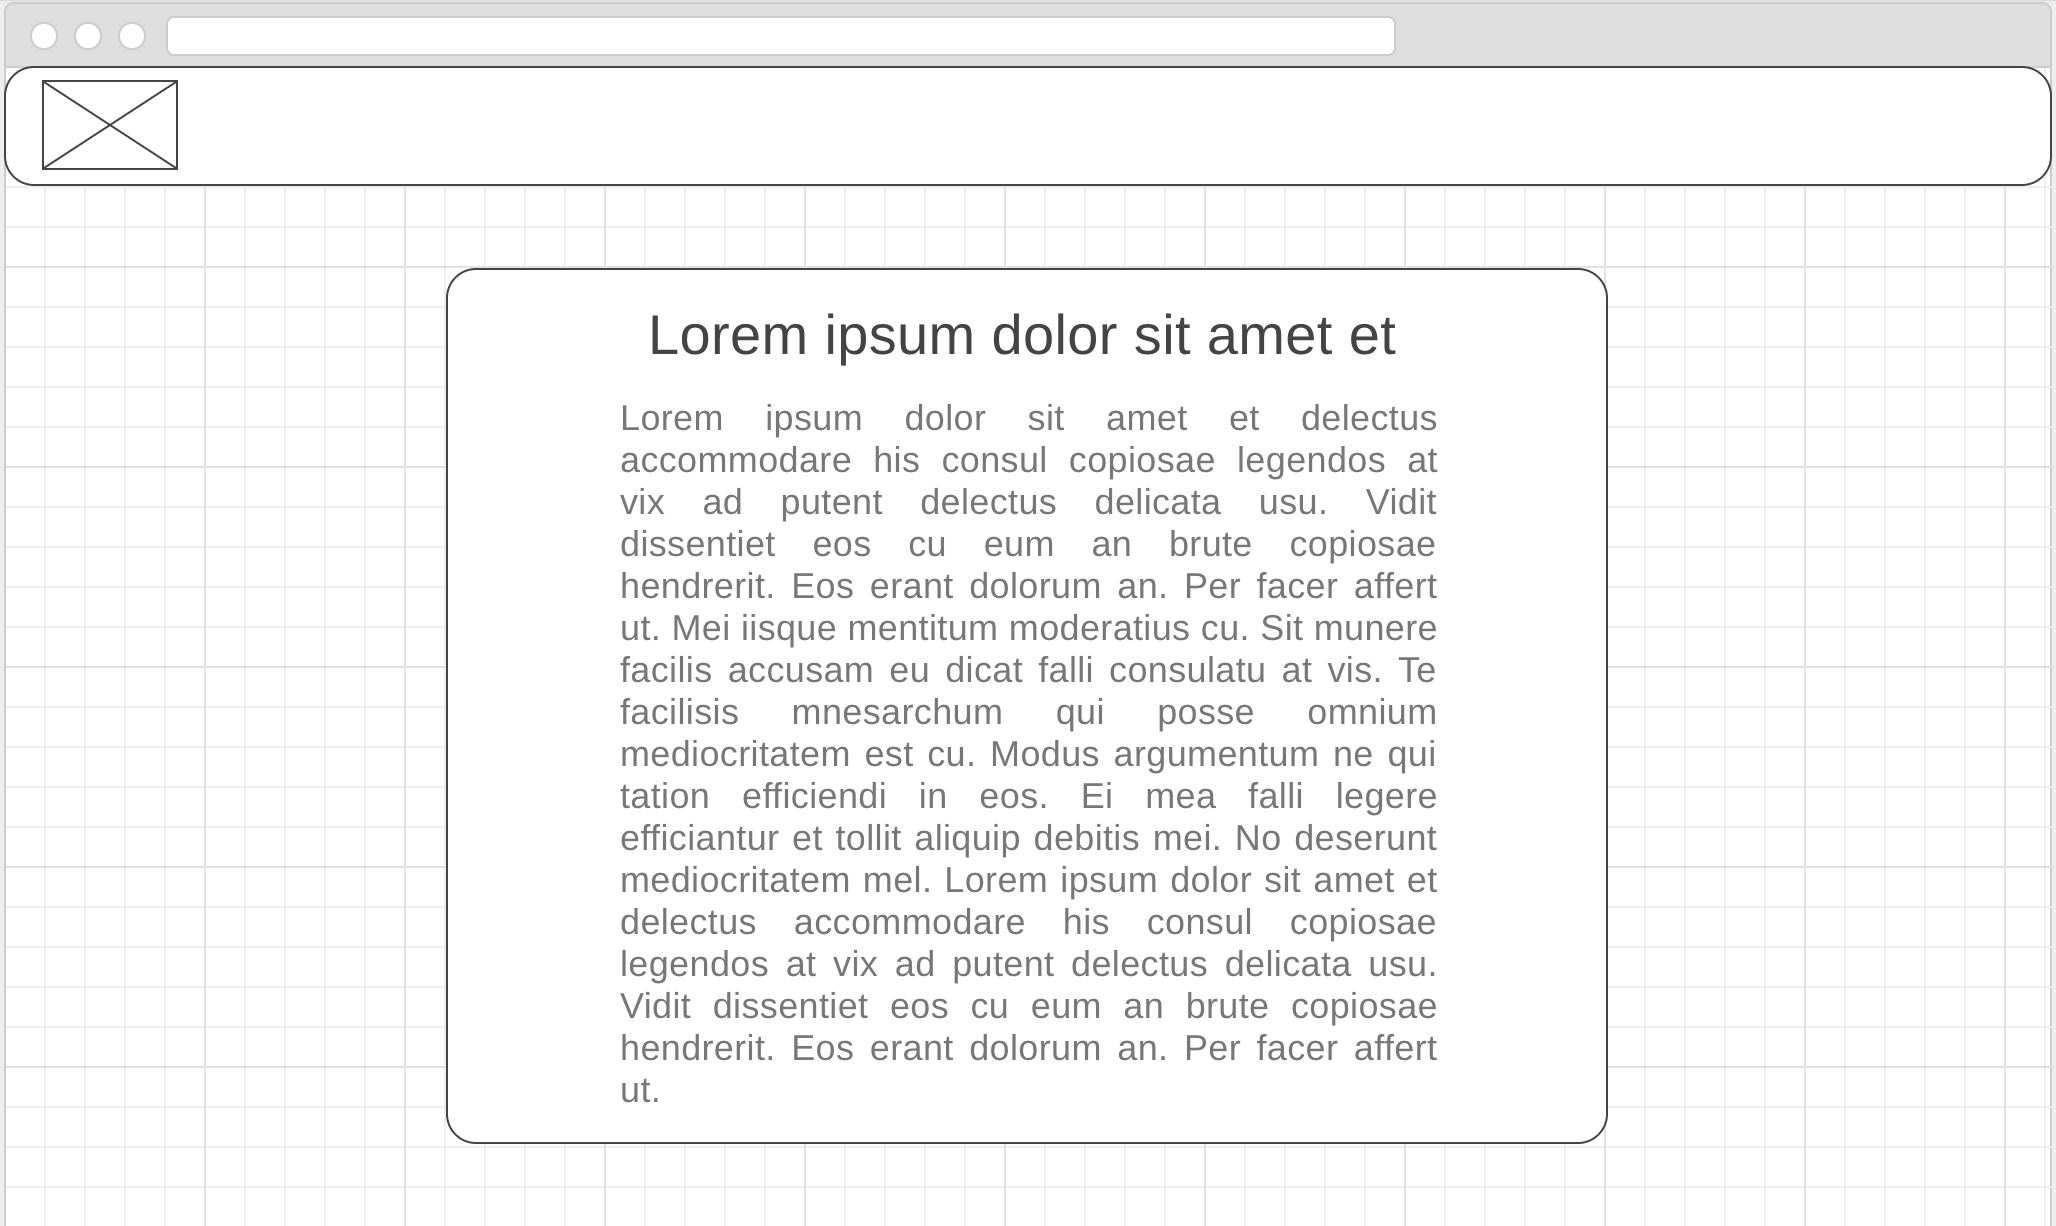
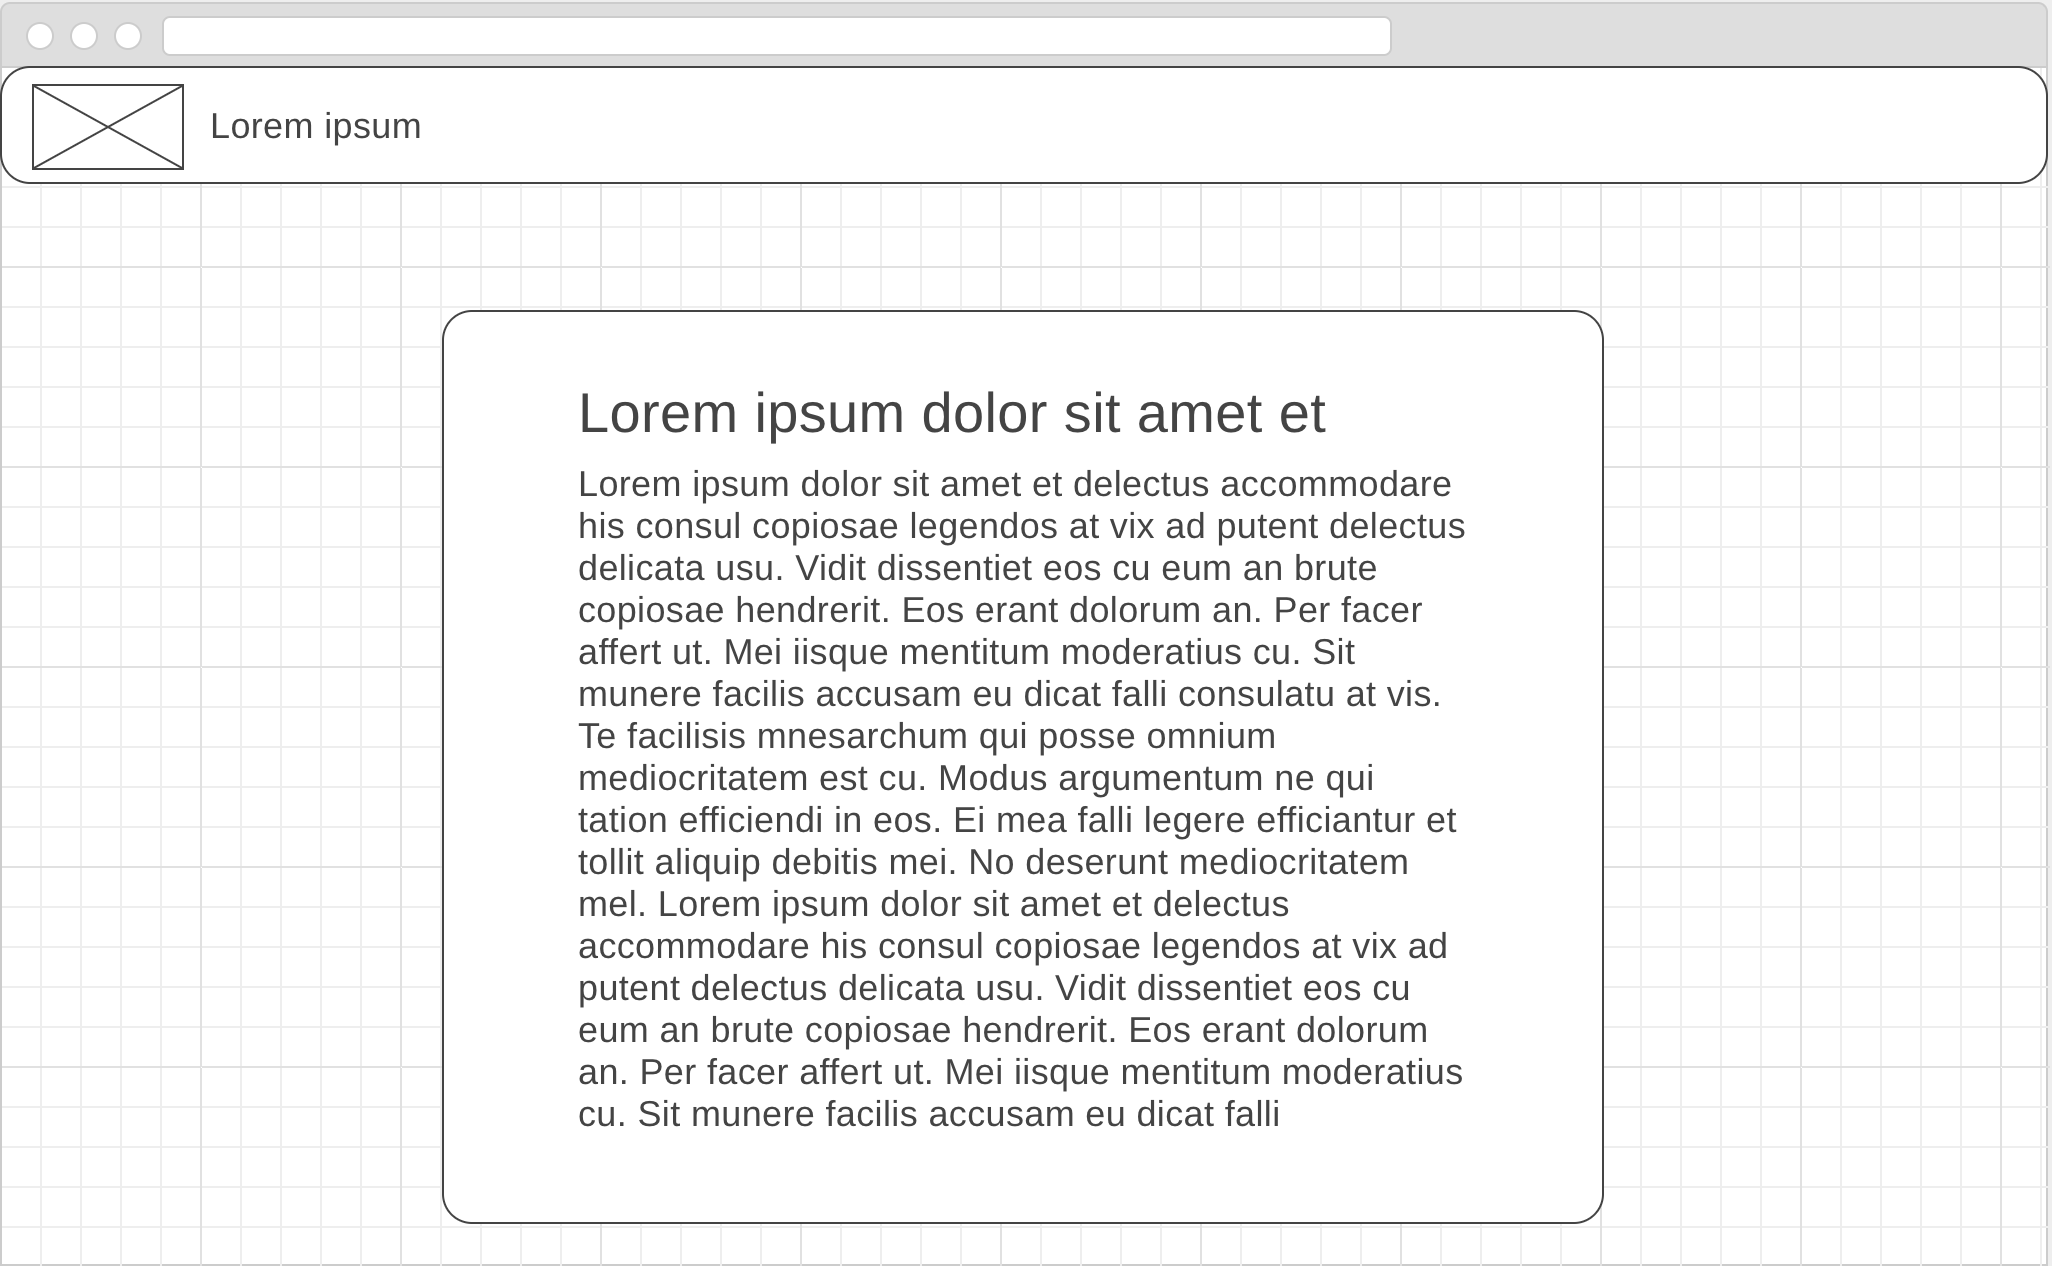
[AW] refactor of section 7 - start of prototype website

diff --git a/courseSections/section7.md b/courseSections/section7.md
@@ -21,7 +21,7 @@ In order to navigate around a prototype website
 
 ```
 As a logo obsessed prototypical business owner
-I need to see my prototype logo on the website navbar
+I need to see my prototype logo and company name on the website navigation bar
 In order to be able to sleep at night
 ```
 
@@ -38,9 +38,9 @@ And an initial wireframe of the page:
 Where do I start?!!
 -------------------
 
-Ok so we have our starting requirements, but maybe you're thinking "*how am I going to get from the simple page with a bit of text to a pristine looking webpage?*" :confused: that is to say, this looks like a rather large jump in task size. This is a common theme for developers so it is worth discussing now. A developer produces the best results when faced with a small narrowly defined piece of work. However, we live in the real world and as this task demonstrates we need to be able to deliver. So the first task when receiving stories or requirements like the above is to break them down into small tasks that you can easily reason about. 
+Ok so we have our starting requirements, but maybe you're thinking "*how am I going to get from the simple page with a bit of text to a pristine looking webpage?*" :confused: that is to say, this looks like a rather large jump in task size. This is a common theme for developers so it is worth discussing now. A developer produces the best results when faced with a small narrowly defined piece of work. However, we live in the real world and as this task demonstrates we need to be able to deliver. So mentally we need to break down the work into smaller bite-size chunks that we can easily reason about and therefore complete.
 
-You may have heard developers talk about **Front end** and **Back end** - the terminology may sound a little dodgy but this is an example of this kind of seperation that allows us to reason about seperate parts of the same task. Concretely, you have already done both front-end and back end development. When you created your ruby program:
+You may have heard developers talk about **Front end** and **Back end** - the terminology may sound a little dodgy but this is an example of this kind of *breaking down* that allows us to reason about seperate parts of the same task. Concretely, you have already done both front-end and back end development. When you created your ruby program:
 
 ```ruby
 get '/' do
@@ -49,14 +49,14 @@ end
 ```
 that was you programming the back-end server to perform the task of automatically getting you a particular resource when you asked for it.
 
-the `index.erb` that you created is your front end: the resource that will be returned to you and rendered in your web browser. A developer who works creates content for both the front end and back end is known as a full-stack developer.
+the `index.erb` that you created is your front end: the resource that will be returned to you and rendered in your web browser. Developers who work creating content for both the front end and back end are known as a full-stack developers.
 
-So onto the first user story. To get this prototype website off the ground we need to have a route setup to serve this page for us. Handily we've already done this with the above piece of code. Why reinvent the wheel when we can reuse the work we've already done!
+So onto the first user story. To get this prototype website off the ground we need to have a route setup to serve this page for us. Handily we've already done this with the above piece of code. Why reinvent the wheel when we can reuse the work we've already done. If that feels to easy, don't worry that will all change soon!
 
 Adding a front-end framework
 ----------------------------
 
-At this point we now want to move on to updating the content. You may remember that we've been using the framework **Sinatra** to help with our back-end code. Well now we are going to do the same with our front-end useing a framework called [Bootstrap](https://getbootstrap.com/) to help structure our page and make it look pretty.
+We now want to move on to updating the content. You may remember that we've been using the framework (just a fancy way of saying someone elses code) **Sinatra** to help with our back-end. Well now we are going to do the same with our front-end using a framework called [Bootstrap](https://getbootstrap.com/) to help structure our page and make it look pretty.
 
 As you may also remember the first thing we need to do is tell our program that it needs to incorporate this framework. 
 
@@ -94,7 +94,7 @@ Update the `<body> ... </body>` section of your `index.erb` file with the follow
 </body>
 ```
 
-Remember to save your file and then lets start up our server again
+Remember to save your file and then if you need to, start up your sever again using the commands below, or otherwise just refresh the page.
 
 ```
 $ ruby server.rb -p $PORT -o $IP
@@ -107,19 +107,19 @@ Hopefully when you preview your masterpiece you should see the following rather 
 Task 3
 ------
 
-:twisted_rightwards_arrows: Now's a good opportunity to switch using git to add, commit, push and pull your changes then we can get on with the task.
+:twisted_rightwards_arrows: Now's a good opportunity to switch using git to add, commit, push and pull your changes.
 
-Another thing developers spend a large amount of their time on is reading documentation. We've pulled in the bootstrap framework which gives us access to a whole bag of tools, their documentation is how we learn how to use the toolkit.
+Another thing developers spend a large amount of their time on is reading documentation. We've pulled in the bootstrap framework which gives us access to a whole bag of tools, their documentation is how we learn how to use the toolkit so lets do some research:
 
- - [ ] work out how to complete our 3rd user story:
+ - [ ] Using the documentation below add the company logo and name: "Prototype Inc." to the navigation bar to fulfil the following user story
 
 ```
 As a logo obsessed prototypical business owner
-I need to see my prototype logo on the website navbar
+I need to see my prototype logo and company name on the website navigation bar
 In order to be able to sleep at night
 ```
 
-For this task you will probaly need to do some research using the [bootstrap documentation for navbars](https://getbootstrap.com/components/#navbar). You may also want to look into how the [html <img> tag works](https://www.w3schools.com/tags/tag_img.asp).
+For this task you should have a look at the bootstrap documentation for navbars [bootstrap documentation for navbars](https://getbootstrap.com/components/#navbar). You may also want to look into how the [html <img> tag works](https://www.w3schools.com/tags/tag_img.asp). 
 
 Kindly our client has provided the following logo for us:
 
@@ -130,5 +130,9 @@ The icon you need to add can be loaded from the following url:
 ```
 https://raw.githubusercontent.com/ALRW/dayAsADev/master/images/glyphicon.png
 ```
+
+The client has also asked the we add the company name as a `<h4></h4>` size element.
+
+Good luck!
 
 [Return to previous section](../tasks/task2.md) | [Continue to answers](../tasks/task3.md)
